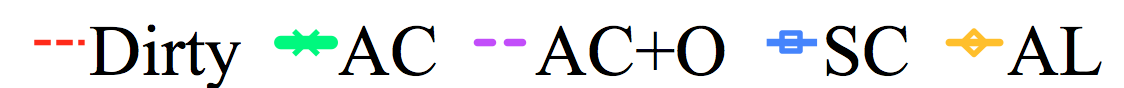
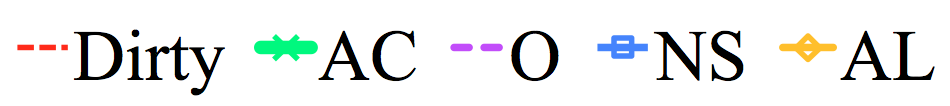
updated some legends addressing eugene's comments

Changed region(s): [[0.0, 0.2727, 1.0, 1.0]]

diff --git a/experiments.tex b/experiments.tex
@@ -1,16 +1,13 @@
 \section{Experiments}\label{eval}
-We evaluate \sys on a variety of data cleaning problems and statistical models.
+%We evaluate \sys on a variety of data cleaning problems and statistical models.
 We start by presenting two end-to-end scenarios based on a dataset of movies from IMDB and a dataset of medical donations from ProPublica.
 These scenarios have real data and real errors, and we describe how these errors can affect statistical modeling problems.
+Next, we evaluate a how dirty data may affect Machine Learning ``pipelines'' in an image classification example where we corrupted certain images.
 Then, we evaluate each of the components of \sys on standard Machine Learning benchmarks (Tax Record Classification, EEG anomaly detection) with synthetic errors.
-Finally, evaluate a how dirty data may affect Machine Learning ``pipelines'' in an image classification example where we corrupted certain images.
 
 \subsection{Setup}
 We compare \sys to alternative solutions along two primary axes: the sampling procedure to pick the next set of records to clean, and the model update procedure to incorporate the cleaned sample.
-All of the compared approaches clean the same amount of data, and we evalauate the accuracy of the approaches as a function of the amount of data cleaned.
-
-% We compare \sys to the following alternatives for interactive data cleaning for Machine Learning.
-
+All of the compared approaches clean the same amount of data, and we evalauate the accuracy of the approaches as a function of the amount of data examined; defined as the number of evaluations of the user-specified $Clean(\dot)$ on a record whether or not the record is actually dirty.
 
 \vspace{0.25em}
 \noindent\textbf{Naive-Mix (NM): } In each iteration, NM draws a random sample, merges the cleaned sample back into the dataset, and re-trains over the entire dataset.
@@ -24,20 +21,6 @@ The samples are picked using Active Learning (more precisely, Uncertainty Sampli
 
 \vspace{0.25em}
 \noindent\textbf{Oracle (O): } Oracle has complete access to the ground truth, and in each iteration, selects samples that maximize the expected convergence rate.  It uses \sys's model update procedure.  
-
-% \vspace{0.25em}
-% \noindent\textbf{Re-training (RTr): } Re-training takes a sample of data, applies data cleaning in place, and then re-trains the model over the partially clean data. 
-% 
-% \vspace{0.25em}
-% \noindent\textbf{SampleClean (SC) \cite{wang1999sample}. } SampleClean takes a sample of data, applies data cleaning, and then trains a model to completion on the sample.
-% 
-% \vspace{0.25em}
-% \noindent\textbf{Active Learning (AL) \cite{guillory2009active}. }
-% Within each iteration, examples are prioritized by distance to the decision boundary (called Uncertainty Sampling in \cite{settles2010active}).
-% The model is trained on the previously cleaned data as in SampleClean.
-% 
-% \vspace{0.25em}
-% \noindent\textbf{ActiveClean Oracle (AC+O): } In \sys Oracle, instead of an estimation and detection step, the true clean value is used to evaluate the theoretical ideal performance of \sys.
 
 \begin{figure*}[t]
 \centering
@@ -55,20 +38,20 @@ One indication of the systematic nature of the data error is that errors disprop
 We simulate the analyst's cleaning procedure by looking up the cleaned value in the dataset that we cleaned beforehand.
 See~\cite{activecleanarxiv} for constraints, errors, and cleaning methodology, as well as an additional regression scenario.
 
-\reminder{Can I propose using "Records Examined" as the x-axes instead of "records cleaned"?}
+%\reminder{Can I propose using "Records Examined" as the x-axes instead of "records cleaned"?}
 
 \subsubsection{Movie Prediction (Movie)}
-The first scenario uses two movie datasets from IMDB \footnote{\tiny \url{ftp://ftp.fu-berlin.de/pub/misc/movies/database/}} and Yahoo that was published \reminder{REFERENCE WHERE THEY ARE FROM}.
-Each movie has a title, a short 1-2 paragraph plot description, and a list of categories, and the goal is to train a model to predict whether a movie is a ``Horror'' or ``Comedy'' from the description and title.  The text data was featurized using a TFIDF model.
+The first scenario uses two movie datasets from IMDB \footnote{\tiny \url{ftp://ftp.fu-berlin.de/pub/misc/movies/database/}} and Yahoo that was published~\footnote{http://webscope.sandbox.yahoo.com/catalog.php?datatype=r}.
+Each movie has a title, a short 1-2 paragraph plot description, and a list of categories, and the goal is to train a model to predict whether a movie is a ``Horror'' or ``Comedy'' from the description and title.  
+The text data was featurized using a TFIDF model.
 
-The IMDB dataset is larger (\reminder{HOW MANY}), but much dirtier because it was collected from a web scraper.  
-This data is user contributed, and the category list is very dirty, with redundant and possibly conflicting tags (e.g., ``Kids'' and ``Horror'' for the same movie).  
+The IMDB dataset is larger (486,298), but much dirtier because it was collected from a web scraper.  
+This data is user-contributed, and the category list is very dirty, with redundant and possibly conflicting tags (e.g., ``Kids'' and ``Horror'' for the same movie).  
 In addition, the plot and title text may have errors from the scraping procedure (e.g., ``results fr\^Celf, the'').
-In contrast, the smaller (106959 movies) Yahoo dataset is much cleaner.  In addition, nearly all of the movies are found in the IMDB dataset.
+In contrast, the smaller (106,959 movies) Yahoo dataset is much cleaner.  In addition, nearly all of the movies are found in the IMDB dataset.
 Thus, we used this as a cleaner reference dataset and performed simple entity resolution to match movies together, and imported the Yahoo dataset's categories to the IMDB dataset when possible.
 For the movies that did not match, we appended the records to the IMDB dataset.
 Finally, we filtered the dataset for movies whose category lists included ``Horror'' or ``Comedy''
-
 
 % The first scenario explores a dataset of movie descriptions scrapped from the Internet Movie Database (IMDB)\footnote{\url{ftp://ftp.fu-berlin.de/pub/misc/movies/database/}}. 
 % Each movie has a title, a 1-2 paragraph plot description, and a list of categories.
@@ -85,13 +68,13 @@ Finally, we filtered the dataset for movies whose category lists included ``Horr
 Figure \ref{real}a plots the distance between the current and cleaned model parameters (model error) versus the number of $Clean(\dot)$ calls.  
 %as more records are cleaned. 
 The purple bottom curve is the oracle approach, and we find that \sys reduces the model error the fastest, and is the only method that converges to the oracle model.
-Figure~\ref{real}b directly shows how \sys rapidly reduces the \reminder{Test error} --- after 2000 records, \sys's test error is within 0.02 of the fully cleaned model.
-\sys is superior for several reasons: First, the update algorithm is able to incorporate both the raw data as well as the smaller set of cleaned records.
+Figure~\ref{real}b directly shows how \sys rapidly reduces the test error --- after 2000 records, \sys's test error is within 0.02 of the fully cleaned model.
+\sys provides superior convergence for several reasons.
+First, the update algorithm is able to incorporate both the raw data as well as the smaller set of cleaned records.
 For instance, the difference between NS and NM in Figure~\ref{real}b highlights the effects of naively combining clean and dirty datasets.
-Second, \sys selects records that are both more likely to by dirty (\reminder{Section XX}) and will most improve the model (\reminder{Section XX}).
+Second, \sys selects records that are both more likely to by dirty (Section \ref{det}) and will most improve the model (Section \ref{dist-samp}).
 This is illustrated in AC's faster convergence curve in the first 2000 cleaned records.
-
-The key reason for these positive results is the presence of systematic bias in the dataset --- horror movies are more likely to be erroneously tagged.
+The key reason for these positive results is the presence of systematic bias in the dataset as horror movies are more likely to be erroneously tagged.
 Cleaning the dataset improved the test error for horror movies from 29 to 74\%.
 
 % We find that \sys converges faster than those trained with the alternatives.
@@ -106,7 +89,6 @@ Cleaning the dataset improved the test error for horror movies from 29 to 74\%.
 % This improved to 74\% after data cleaning.
 
 \subsubsection{Dollars For Docs (DfD)}\label{exp:dfd}
-
 The second scenario explores ProPublica's Dollars for Docs dataset described in Section\ref{s:usecase}.
 The application featurizes the 5 text attributes using bag-of-words, and predicts the status of medical donations using a binary SVM.
 Figure~\ref{real}c again shows that \sys outperforms the other cleaning approaches.
@@ -114,7 +96,7 @@ For instance, \sys requires 40,000 fewer calls to $Clean(\dot)$ in order to redu
 and exhibits nearly an order of magnitude smaller model error than either of the naive approaches after only 10,000 calls to $Clean(\dot)$.
 
 Figure~\ref{real}d reports the detection error (percentage of disallowed research contributions that the model misses) rather than the overall test error because the former was the focus of the investigation.  The dirty and fully cleaned models have respectively a 34\% and 3\% detection error.
-Due to the systematic bias in the data errors (\reminder{Can we easily explain what the bias was?}), \sys is able to identify the dirty records and
+Due to the systematic bias in the data errors (explained in Section \ref{s:usecase}), \sys is able to identify the dirty records and
 reduce the detection error to 8\% after 10,000 $Clean(\dot)$ calls --- much faster than the alternatives.
 
 Overall, we found that systematic errors are indeed present in real world datasets, and that \sys can effectively identify and exploit this bias
@@ -159,14 +141,18 @@ Thus we will see that dirtiness in the raw data propogates and spreads throughou
 % We use the MNIST handwritten digit recognition dataset with a MATLAB image processing pipeline.
 % In this scenario, the analyst must inspect a potentially corrupted image and replace it with a higher quality one.
 % The MNIST dataset consists of 64x64 grayscale images.
-There are two types of simulated corruptions that mimic corruptions in previous studies(\reminder{REF?}): \texttt{5x5 Removal} deletes a random 5x5 pixel block by setting the pixel values to 0, and \texttt{Fuzzy} blurs the entire image using a 4x4 moving average patch. 
-We apply these corruptions to a random 5\% of the images.%, and mimic the random (Fuzzy) vs. systematic corruption (5x5 removal) studied in the previous experiments.
+There are two types of simulated corruptions that mimic standard corruptions in image processing (occulusion and low-resolution): \texttt{5x5 Removal} deletes a random 5x5 pixel block by setting the pixel values to 0, and \texttt{Fuzzy} blurs the entire image using a 4x4 moving average patch. 
+We apply these corruptions to a random 5\% of the images.
 \sys's adaptive detector uses a 10 class classifier (one for each digit) to detect the corruption.
 
 Figure \ref{mnist} shows that \sys makes more progress towards the clean model with a smaller number of examples cleaned.
 To achieve a 2\% error for 5x5 Removal, \sys can inspect 2200 fewer images than Active Learning and 2750 fewer images than NS.
 For the fuzzy images, both Active Learning and \sys reach 2\% error after examining $<100$ images, while NS requires 1750.
-\reminder{How did having a pipeline affect dirtiness?}
+Even though these corruptions are applied independent of the data, the \texttt{5x5 Removal} propagates through the pipeline as a systematic error.
+The image features are constructed with edge detectors, which are highly sensitive to this type of corruption.
+Some digits naturually have less edges than others are disproportionately affected since the removal process adds suprious edges.
+On the other hand, the \texttt{Fuzzy} corruption propagates through the pipeline more similar to random error.
+This experiment highlights that featurization and other data processing pipelines between the raw data and model can introduce systematic biases in the presence of data corruption.
 
 \subsection{Simulated Error Scenarios}
 In the next set of experiments, we use standard Machine Learning benchmark datasets and corrupt them with varying levels of systematic noise.
